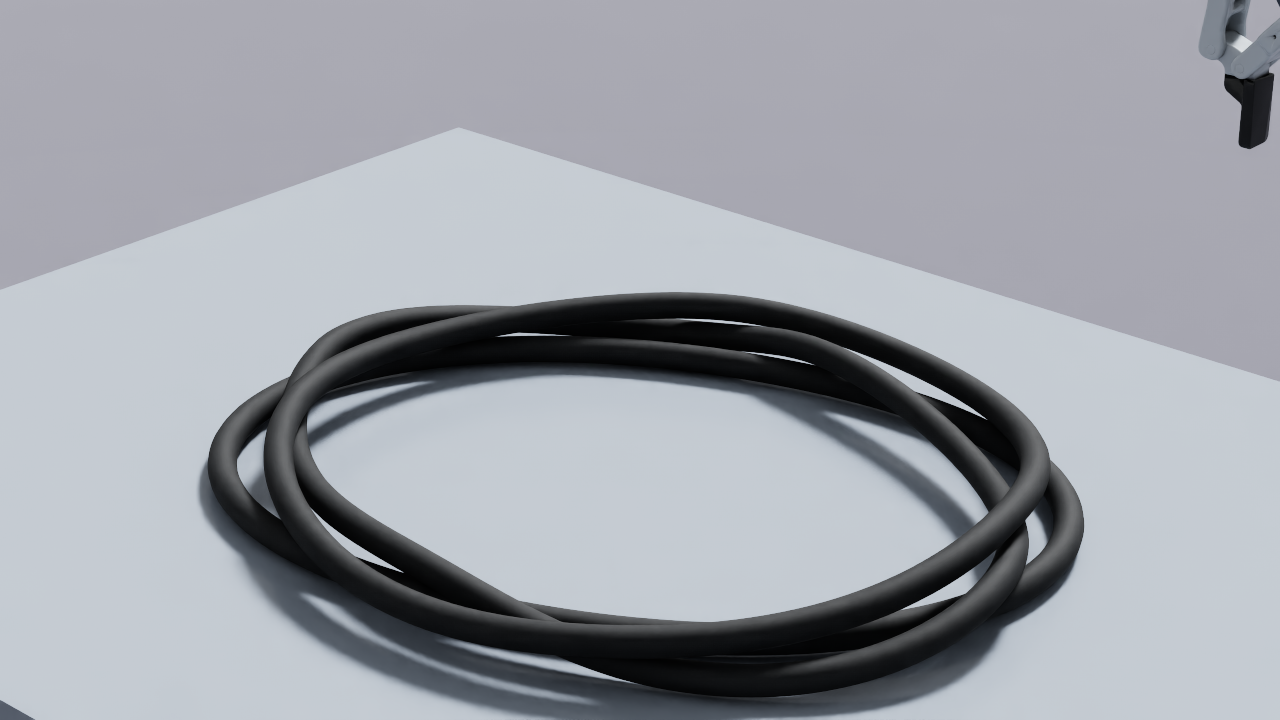
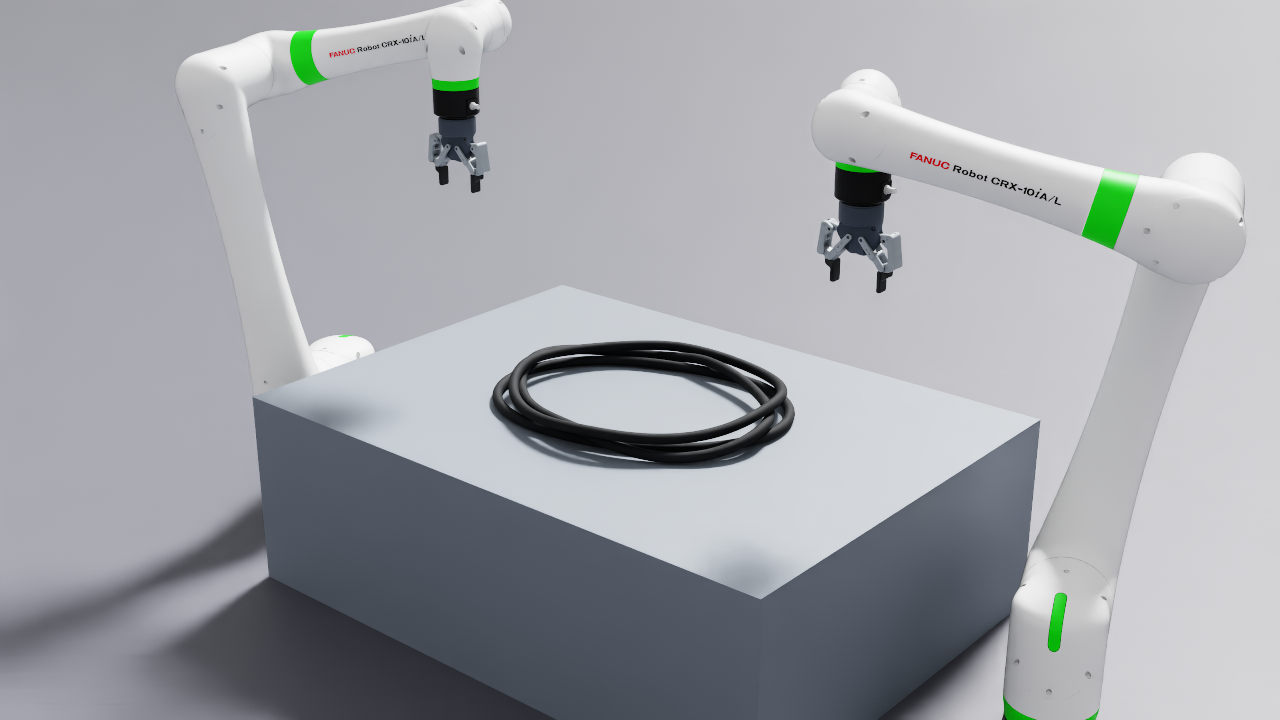
Upgrade to Newton 1.6 and animate the README with a validated GUI cycle

diff --git a/scripts/isaaclab_demo.py b/scripts/isaaclab_demo.py
@@ -5,6 +5,7 @@ The standard timeline Play/Pause and the WeatherStrip panel control the same clo
 """
 
 import argparse
+import asyncio
 from pathlib import Path
 
 from isaaclab.app import AppLauncher
@@ -14,8 +15,19 @@ parser.add_argument("--config", default=str(Path(__file__).resolve().parents[1] 
 parser.add_argument("--auto-play", action="store_true")
 parser.add_argument("--pause-at", type=float, default=None)
 parser.add_argument("--smoke-frames", type=int, default=0)
+parser.add_argument("--capture-dir", type=Path, help="Save a complete cycle as numbered viewport PNGs.")
+parser.add_argument("--capture-stride", type=int, default=4, help="Physics frames per capture (60/4 = 15 FPS).")
+parser.add_argument("--camera", choices=("scene", "close"), default="scene")
+parser.add_argument("--exit-after-cycle", action="store_true")
 AppLauncher.add_app_launcher_args(parser)
 cli = parser.parse_args()
+if cli.capture_stride < 1:
+    parser.error("--capture-stride must be positive")
+if cli.capture_dir:
+    cli.capture_dir = cli.capture_dir.resolve()
+    if cli.capture_dir.exists() and any(cli.capture_dir.iterdir()):
+        parser.error("--capture-dir must be empty to avoid mixing recordings")
+    cli.capture_dir.mkdir(parents=True, exist_ok=True)
 launcher = AppLauncher(cli)
 app = launcher.app
 
@@ -72,7 +84,7 @@ def set_camera(close=False):
         viewport.camera_path = "/root/Camera"
 
 
-set_camera()
+set_camera(cli.camera == "close")
 viewport = get_active_viewport()
 timeline = omni.timeline.get_timeline_interface()
 timeline.set_end_time(cfg.trajectory.total_duration_s + 1)
@@ -124,7 +136,51 @@ with window.frame:
         fps_label = ui.Label("FPS: measuring", height=25)
         ui.Label("Black rubber | illustrative material, not calibrated", height=25)
 
-if cli.auto_play or cli.smoke_frames:
+capture_frames = []
+
+
+def capture_frame():
+    """Finish rendering this physical state before advancing the solver again."""
+    set_camera(cli.camera == "close")
+    active = get_active_viewport()
+    if active is None:
+        raise RuntimeError("Viewport capture requires a displayed Kit viewport")
+    filename = f"frame_{len(capture_frames):05d}.png"
+    destination = cli.capture_dir / filename
+    request = capture_viewport_to_file(active, str(destination))
+    pending = asyncio.ensure_future(request.wait_for_result())
+    deadline = time.monotonic() + 30.0
+    while not pending.done() or not destination.exists():
+        if not app.is_running() or time.monotonic() > deadline:
+            pending.cancel()
+            raise RuntimeError(f"Viewport capture did not finish: {destination}")
+        app.update()
+    pending.result()
+    capture_frames.append(dict(file=filename, sim_time_s=sim.sim_time, phase=sim.last_sample.phase))
+    (cli.capture_dir / "capture.json").write_text(
+        json.dumps(
+            {
+                "newton": newton.__version__,
+                "warp": wp.__version__,
+                "physics_fps": cfg.simulation.fps,
+                "stride": cli.capture_stride,
+                "playback_fps": cfg.simulation.fps / cli.capture_stride,
+                "camera": cli.camera,
+                "completed": completed,
+                "validation_passed": validation_passed,
+                "frames": capture_frames,
+            },
+            indent=2,
+        )
+        + "\n"
+    )
+
+
+if cli.capture_dir:
+    for _ in range(20):
+        app.update()
+    capture_frame()
+if cli.auto_play or cli.smoke_frames or cli.capture_dir:
     timeline.play()
 print(
     "WEATHERSTRIP_GUI_READY: Isaac Lab AppLauncher; live Newton coupled physics; paused="
@@ -212,6 +268,8 @@ try:
                     simulated_seconds_per_wall_second=(1000 / means[3]) / cfg.simulation.fps,
                 )
                 fps_label.text = f"FPS: {perf_report['fps']:.1f} | Physics: {means[0]:.1f} ms | USD: {means[1]:.1f} ms"
+        if cli.capture_dir and advanced and (frames % cli.capture_stride == 0 or completed):
+            capture_frame()
         ticks += 1
         if control_path.exists():
             command = json.loads(control_path.read_text())
@@ -232,6 +290,8 @@ try:
             (REPO_ROOT / "results/gui_status.json").write_text(
                 json.dumps(
                     {
+                        "newton": newton.__version__,
+                        "warp": wp.__version__,
                         "sim_time_s": sim.sim_time,
                         "phase": sim.last_sample.phase,
                         "playing": timeline.is_playing(),
@@ -253,6 +313,7 @@ try:
             (REPO_ROOT / "results/gui_performance.json").write_text(
                 json.dumps(
                     {
+                        "capture_enabled": bool(cli.capture_dir),
                         "last_window": perf_report,
                         "sampled_frames": len(perf_frames),
                         "mean_ms": np.asarray(perf_frames).mean(axis=0).tolist(),
@@ -262,6 +323,10 @@ try:
                 + "\n"
             )
             perf_frames = []
+        if completed and cli.exit_after_cycle:
+            if not validation_passed:
+                raise RuntimeError("GUI cycle validation failed")
+            break
         if cli.smoke_frames and frames >= cli.smoke_frames:
             report = {
                 "isaaclab_app_launcher": True,
@@ -274,6 +339,8 @@ try:
             break
         if not timeline.is_playing():
             time.sleep(0.01)
+    if cli.capture_dir and not completed:
+        raise RuntimeError("GUI closed before the recording completed")
 except BaseException:
     import traceback
 

diff --git a/scripts/make_demo_gif.py b/scripts/make_demo_gif.py
@@ -1,0 +1,55 @@
+"""Encode a validated Isaac Lab viewport recording with FFmpeg (no Python extras)."""
+
+import argparse
+import json
+from pathlib import Path
+import shutil
+import subprocess
+
+parser = argparse.ArgumentParser(description=__doc__)
+parser.add_argument("capture_dir", type=Path)
+parser.add_argument("output", type=Path)
+parser.add_argument("--width", type=int, default=960)
+args = parser.parse_args()
+if args.width < 1:
+    parser.error("--width must be positive")
+ffmpeg = shutil.which("ffmpeg")
+if not ffmpeg:
+    parser.error("FFmpeg is required (Ubuntu: sudo apt install ffmpeg)")
+manifest = json.loads((args.capture_dir / "capture.json").read_text())
+if not manifest["completed"] or not manifest["validation_passed"]:
+    parser.error("Only a completed, validated simulation recording can be published")
+frames = manifest["frames"]
+if len(frames) < 2:
+    parser.error("The recording must have multiple frames")
+for i, frame in enumerate(frames):
+    expected = f"frame_{i:05d}.png"
+    if frame["file"] != expected or not (args.capture_dir / expected).is_file():
+        parser.error(f"Missing or nonsequential capture: {expected}")
+args.output.parent.mkdir(parents=True, exist_ok=True)
+subprocess.run(
+    [
+        ffmpeg,
+        "-hide_banner",
+        "-loglevel",
+        "warning",
+        "-n",
+        "-framerate",
+        str(manifest["playback_fps"]),
+        "-i",
+        str(args.capture_dir / "frame_%05d.png"),
+        "-filter_complex",
+        f"scale={args.width}:-1:flags=lanczos,split[a][b];"
+        "[a]palettegen=max_colors=96:stats_mode=diff[p];[b][p]paletteuse=dither=none:diff_mode=rectangle",
+        "-frames:v",
+        str(len(frames)),
+        "-loop",
+        "0",
+        str(args.output),
+    ],
+    check=True,
+)
+print(
+    f"{args.output}: {len(frames)} frames, {manifest['playback_fps']:g} FPS, "
+    f"{args.output.stat().st_size / 1024**2:.2f} MiB"
+)

diff --git a/scripts/build_asset.py b/scripts/build_asset.py
@@ -34,7 +34,7 @@ root.GetPrim().SetCustomData(
         "material_calibrated": False,
         "physics_backend": "Newton VBD closed Cosserat rod",
         "conformance": "Simulation-ready example; not formally SimReady certified",
-        "schema_support": "Pinned Newton 1.5 deformable proposal importer",
+        "schema_support": "Pinned Newton 1.6 deformable proposal importer",
     }
 )
 points = np.asarray(ring_points(w.segments, w.rest_radius_m, 0.0, w.minor_radius_m), dtype=np.float32)
@@ -87,7 +87,7 @@ root.GetPrim().CreateAttribute("weatherstrip:runtimeProfile", Sdf.ValueTypeNames
 )
 profile = {
     "schema_version": 1,
-    "backend": "Newton 1.5 SolverVBD",
+    "backend": "Newton 1.6 SolverVBD",
     "units": "SI",
     "material_calibrated": False,
     "weatherstrip": dataclasses.asdict(w),

diff --git a/src/newton_weatherstrip/presentation.py b/src/newton_weatherstrip/presentation.py
@@ -128,7 +128,7 @@ class Presentation:
         UsdGeom.Xformable(key).AddRotateXYZOp().Set(Gf.Vec3f(-35, -25, -20))
         self.stage.SetEndTimeCode(sim.config.full_cycle_frames)
         self.stage.GetDefaultPrim().SetCustomDataByKey(
-            "weatherstrip:physics", "Newton 1.5 SolverCoupledADMM(MuJoCo,VBD); live physical finger contact"
+            "weatherstrip:physics", "Newton 1.6 SolverCoupledADMM(MuJoCo,VBD); live physical finger contact"
         )
         self.stage.GetDefaultPrim().SetCustomDataByKey(
             "weatherstrip:calibration", "Qualitative EPDM-like rod; uncalibrated material, no certification claim"

diff --git a/README.md b/README.md
@@ -4,9 +4,9 @@
 
 FANUC CRX-10iA/L 두 대와 Robotiq 2F-85 그리퍼가 테이블에 쌓인 웨더스트립 세 개 중 맨 위 하나를 집습니다. 들어 올려 양쪽으로 늘리고, 다시 느슨하게 늘어뜨린 다음 공중에서 그리퍼를 열어 아래 두 개 위로 떨어뜨립니다. 로봇 관절, 탄성 변형, 마찰 접촉, 중력 낙하를 계산하고 그 결과를 Isaac Lab GUI에 표시합니다.
 
-![Isaac Lab GUI에서 양쪽 Robotiq으로 맨 위 웨더스트립을 들어 늘리는 장면](docs/media/dual-arm-stretch.png)
+![Newton 1.6으로 계산한 양팔 집기·인장·개방·자유낙하 전체 동작](docs/media/dual-arm-cycle.gif)
 
-*실제 Isaac Lab 뷰포트 캡처. 위 고무만 양쪽 그리퍼에 잡혀 있으며 아래 두 개는 테이블에 남아 있습니다. 미리 만든 변형 애니메이션이 아니라 Newton이 계산한 상태입니다.*
+*Newton 1.6.0 / Warp 1.17.0의 실제 Isaac Lab 뷰포트 기록입니다. 집기 → 들어 올리기 → 인장 → 복원 → 개방·자유낙하 → 적층 안정화를 반복 재생합니다. 60 Hz 물리 상태를 4프레임마다 캡처해 15 FPS로 재생하므로 물리 시간 기준 1배속이며, GUI 처리 속도를 뜻하지 않습니다.*
 
 | 항목 | 구현 |
 | --- | --- |
@@ -167,7 +167,7 @@ $$
 \mathcal L_{\mathrm{aug}}=E+\lambda^{\mathsf T}C+\frac{\rho_c}{2}\lVert C\rVert^2
 $$
 
-기본 구현에서 케이블의 인장·전단·굽힘·비틀림은 유한 강성을 가진 soft 모드이며, 강체 접촉은 hard 모드를 사용합니다. `builder.color()`가 필수이고, 감쇠 계수 `kd`는 절대 물리 단위로 해석합니다. [Newton SolverVBD API](https://newton-physics.github.io/newton/1.5.0/api/_generated/newton.solvers.SolverVBD.html), [AVBD 원 논문](https://graphics.cs.utah.edu/research/projects/avbd/)
+기본 구현에서 케이블의 인장·전단·굽힘·비틀림은 유한 강성을 가진 soft 모드이며, 강체 접촉은 hard 모드를 사용합니다. `builder.color()`가 필수이고, 감쇠 계수 `kd`는 절대 물리 단위로 해석합니다. [Newton SolverVBD API](https://newton-physics.github.io/newton/1.6.0/api/_generated/newton.solvers.SolverVBD.html), [AVBD 원 논문](https://graphics.cs.utah.edu/research/projects/avbd/)
 
 VBD 논문의 안정성 논의를 곧바로 이 전체 장면의 무조건적인 성공 보장으로 확대하면 안 됩니다. 본 장면은 유한 반복, 접촉 검출, 관절 구동, 서로 다른 솔버의 결합을 포함합니다. 반복 수를 너무 줄이거나 접촉 강성을 과도하게 높이면 미끄러짐·잔진동·제약 오차가 발생할 수 있습니다.
 
@@ -194,7 +194,7 @@ $$
 
 Robotiq의 주 관절 하나를 구동하면 mimic equality가 나머지 손가락 관절을 연동합니다. 이 예제는 접촉 하중 아래에서 수동 관절이 과도하게 벌어지지 않도록 `eq_solref=[0.004,1.0]`, `eq_solimp=[0.99,0.99,0.001,0.5,2.0]`를 설정합니다. 이는 예제의 솔버 튜닝값이며 제조사 제어기 사양을 재현한 값은 아닙니다.
 
-`use_mujoco_contacts=False`는 모든 접촉을 끈다는 의미가 아닙니다. Newton/결합 솔버가 관리하는 접촉 경로를 사용한다는 뜻입니다. 특히 고무–그리퍼의 교차 솔버 접촉은 다음 ADMM 인터페이스가 담당합니다. [Newton MuJoCo 문서](https://newton-physics.github.io/newton/1.5.0/solvers/mujoco.html), [MuJoCo Warp](https://github.com/google-deepmind/mujoco_warp)
+`use_mujoco_contacts=False`는 모든 접촉을 끈다는 의미가 아닙니다. Newton/결합 솔버가 관리하는 접촉 경로를 사용한다는 뜻입니다. 특히 고무–그리퍼의 교차 솔버 접촉은 다음 ADMM 인터페이스가 담당합니다. [Newton MuJoCo 문서](https://newton-physics.github.io/newton/1.6.0/solvers/mujoco.html), [MuJoCo Warp](https://github.com/google-deepmind/mujoco_warp)
 
 ### 3.4 ADMM으로 두 솔버 결합하기
 
@@ -230,7 +230,7 @@ SolverCoupledADMM.Config(
 )
 ```
 
-ADMM은 소유권이 다른 물체의 접촉 행을 내부 검출 경로에서 구성하고, 마찰 접촉에서 최대 소산을 따르는 Coulomb 투영을 사용합니다. VBD가 계산하는 고무끼리의 접촉과 이 교차 접촉을 구분해야 합니다. `rho`는 인터페이스의 수치적 penalty이며 고무의 Young 계수나 N/m 단위의 접촉 스프링 강성과 동일한 값이 아닙니다. 고정된 반복 예산을 사용하므로 매 substep의 완전 수렴을 주장하지 않습니다. [Newton 결합 솔버 문서](https://newton-physics.github.io/newton/1.5.0/concepts/coupling.html)
+ADMM은 소유권이 다른 물체의 접촉 행을 내부 검출 경로에서 구성하고, 마찰 접촉에서 최대 소산을 따르는 Coulomb 투영을 사용합니다. VBD가 계산하는 고무끼리의 접촉과 이 교차 접촉을 구분해야 합니다. `rho`는 인터페이스의 수치적 penalty이며 고무의 Young 계수나 N/m 단위의 접촉 스프링 강성과 동일한 값이 아닙니다. 고정된 반복 예산을 사용하므로 매 substep의 완전 수렴을 주장하지 않습니다. [Newton 결합 솔버 문서](https://newton-physics.github.io/newton/1.6.0/concepts/coupling.html)
 
 ### 3.5 적층 안정화와 접촉 계수
 
@@ -319,9 +319,9 @@ USD의 주요 prim은 다음과 같습니다.
 | OS | Ubuntu 24.04.4 LTS, Linux x86-64 |
 | Python | 3.12 |
 | GPU / 드라이버 | NVIDIA RTX 6000 Ada 48 GB / 595.91.07 |
-| Newton | 1.5.0, upstream tag `v1.5.0` |
-| Warp | 1.16.0 |
-| MuJoCo / MuJoCo Warp | 각각 3.11.0 |
+| Newton | 1.6.0, upstream tag `v1.6.0` |
+| Warp | 1.17.0 |
+| MuJoCo / MuJoCo Warp | 각각 3.12.0 |
 | NumPy / OpenUSD | 2.3.1 / `usd-core` 25.11 |
 | Isaac Sim | 6.0.1.0 |
 | Isaac Lab 소스 | commit `2e44ddb2e19536579140496023b5ccb060bc4152` |
@@ -388,7 +388,7 @@ export WEATHERSTRIP_ISAACLAB="$PWD/.cache/IsaacLab"
 ./scripts/run_isaaclab.sh
 ```
 
-이 예제는 `AppLauncher`만 사용하고 학습 환경의 전체 설치 집합을 요구하지 않습니다. 실행 래퍼가 `WEATHERSTRIP_ISAACLAB/source/*`를 Python 경로에 추가합니다. 해당 Isaac Lab commit의 전체 `setup.py`에는 Warp 1.13.0 의존성이 있으므로, 이를 무조건 함께 설치하면 본 예제의 Newton 1.5 / Warp 1.16 조합과 충돌합니다. 학습용 Isaac Lab 환경에 통합할 때에는 별도 호환성 검증이 필요합니다.
+이 예제는 `AppLauncher`만 사용하고 학습 환경의 전체 설치 집합을 요구하지 않습니다. 실행 래퍼가 `WEATHERSTRIP_ISAACLAB/source/*`를 Python 경로에 추가합니다. 해당 Isaac Lab commit의 전체 `setup.py`에는 Warp 1.13.0 의존성이 있으므로, 이를 무조건 함께 설치하면 본 예제의 Newton 1.6 / Warp 1.17 조합과 충돌합니다. 학습용 Isaac Lab 환경에 통합할 때에는 별도 호환성 검증이 필요합니다.
 
 GUI 검증에는 기존 Isaac Sim 설치와 **수정하지 않은 고정 Isaac Lab 소스**를 사용합니다. 위 GUI 패키지 전체를 모든 시스템에서 자동 설치해 주는 통합 설치기나 Docker 이미지를 제공하는 것은 아닙니다. NVIDIA EULA 확인과 첫 실행 shader 준비는 Isaac Sim의 안내를 따릅니다. [Isaac Lab 설치 안내](https://isaac-sim.github.io/IsaacLab/v3.0.0-beta2/source/setup/installation/pip_installation.html)
 
@@ -435,6 +435,18 @@ WEATHERSTRIP_DEVICE=cuda:1 WEATHERSTRIP_RENDER_GPU=0 \
 - 상태 표시: 동작 단계, 물리 시간, 고무 폭, FPS, 물리·USD 갱신 비용.
 
 60 Hz는 물리 시간 간격의 기준입니다. 예를 들어 GUI가 20 FPS이면 물리 시간 1초를 진행하는 데 실제 약 3초가 걸립니다. GUI FPS와 실시간 배속 1.0을 혼동하지 않아야 합니다.
+
+### README 동작 GIF 재생성
+
+GUI 환경과 FFmpeg가 필요합니다. 프레임 폴더는 비어 있어야 하며, 완료·물리 검증에 통과한 기록만 GIF로 변환합니다. 카메라는 기록 동안 고정됩니다.
+
+```bash
+./scripts/run_isaaclab.sh --capture-dir results/demo-frames \
+  --camera scene --capture-stride 4 --exit-after-cycle
+python3 scripts/make_demo_gif.py results/demo-frames results/dual-arm-cycle.gif
+```
+
+생성 파일을 확인한 뒤 `docs/media/dual-arm-cycle.gif`로 복사합니다. `capture.json`에는 엔진 버전, 물리 시간, 단계별 프레임과 검증 결과가 기록됩니다. GIF는 960 px 너비, 15 FPS, 무한 반복이며 원본 PNG는 Git에 포함하지 않습니다.
 
 ### 기록과 검증
 
@@ -519,7 +531,7 @@ GitHub Actions는 CPU에서 표면 회귀, 자산 manifest 무결성, Python 및
 
 ### 관측 결과
 
-새 계산 전용 가상환경에서 기본 13.05초 전체 사이클이 통과했습니다. 전체 고무 상승은 약 0.261 m, 최대 폭은 약 0.761 m였고, 최대 rigid contact 수는 415 / 8,192였습니다. 마지막 1초 평균 RMS 속도는 아래에서부터 약 0.56 / 1.15 / 1.29 mm/s였습니다. 고정된 Isaac Lab 원본 소스로 실행한 GUI에서도 전체 사이클이 통과했습니다.
+Newton 1.6.0의 새 계산 전용 가상환경에서 기본 13.05초 전체 사이클이 통과했습니다. 전체 고무 상승은 약 0.262 m, 최대 폭은 약 0.761 m였고, 최대 rigid contact 수는 410 / 8,192였습니다. 마지막 1초 평균 RMS 속도는 아래에서부터 약 0.54 / 1.05 / 1.04 mm/s였습니다. 고정된 Isaac Lab 원본 소스로 실행한 GUI에서도 전체 사이클이 통과했습니다.
 
 적층 안정화의 비교 지표는 구간 중심의 프레임 간 변위로부터 계산합니다.
 
@@ -528,9 +540,11 @@ v_{i,n}=\frac{\lVert p_{i,n}-p_{i,n-1}\rVert}{\Delta t_{\mathrm{frame}}},\qquad
 v_{\mathrm{RMS},n}=\sqrt{\frac{1}{N}\sum_i v_{i,n}^2}
 $$
 
-동일한 12–13초 구간에서 최상단 씰의 평균 RMS 속도는 **16.85 → 2.13 mm/s**로 감소했습니다. 20초까지 물리를 계속 계산했을 때에는 약 **0.96 mm/s**였습니다. 정지 판정으로 속도를 없앤 결과가 아닙니다. 이 수치는 예시 재료와 장면의 관측값이며 실측 재료 검증값은 아닙니다. 공개용 지표는 [docs/validation/reference-results.json](docs/validation/reference-results.json)에 정리했습니다.
+Newton 1.5 개발 당시 동일한 12–13초 구간에서 최상단 씰의 평균 RMS 속도는 **16.85 → 2.13 mm/s**로 감소했습니다. 20초까지 물리를 계속 계산했을 때에는 약 **0.96 mm/s**였습니다. 정지 판정으로 속도를 없앤 결과가 아닙니다. 이 수치는 예시 재료와 장면의 관측값이며 실측 재료 검증값은 아닙니다. 공개용 지표는 [docs/validation/reference-results.json](docs/validation/reference-results.json)에 정리했습니다.
 
 ### 성능 개선
+
+아래 비교는 Newton 1.5 개발 당시의 기록입니다. Newton 1.6의 재검증 결과와 구분합니다. GIF 캡처 중의 처리 속도는 성능 측정으로 사용하지 않습니다.
 
 | 측정 경로 | 이전 | 개선 후 |
 | --- | ---: | ---: |
@@ -627,8 +641,8 @@ NewtonVBD_WeatherStrip/
 | VBD | Chen et al., *Vertex Block Descent*, SIGGRAPH 2024 — [프로젝트와 논문](https://graphics.cs.utah.edu/research/projects/vbd/) |
 | AVBD | Giles et al., *Augmented Vertex Block Descent*, SIGGRAPH 2025 — [프로젝트와 논문](https://graphics.cs.utah.edu/research/projects/avbd/) |
 | ADMM | Boyd et al., *Distributed Optimization and Statistical Learning via ADMM*, 2011 — [원문](https://stanford.edu/~boyd/papers/admm_distr_stats.html) |
-| Newton 1.5 | [소스](https://github.com/newton-physics/newton/tree/v1.5.0), [VBD API](https://newton-physics.github.io/newton/1.5.0/api/_generated/newton.solvers.SolverVBD.html), [결합 솔버](https://newton-physics.github.io/newton/1.5.0/concepts/coupling.html) |
-| MuJoCo Warp | [공식 저장소](https://github.com/google-deepmind/mujoco_warp), [Newton 어댑터](https://newton-physics.github.io/newton/1.5.0/solvers/mujoco.html) |
+| Newton 1.6 | [소스](https://github.com/newton-physics/newton/tree/v1.6.0), [VBD API](https://newton-physics.github.io/newton/1.6.0/api/_generated/newton.solvers.SolverVBD.html), [결합 솔버](https://newton-physics.github.io/newton/1.6.0/concepts/coupling.html) |
+| MuJoCo Warp | [공식 저장소](https://github.com/google-deepmind/mujoco_warp), [Newton 어댑터](https://newton-physics.github.io/newton/1.6.0/solvers/mujoco.html) |
 | Isaac Lab | [공식 저장소](https://github.com/isaac-sim/IsaacLab), [검증 소스 commit](https://github.com/isaac-sim/IsaacLab/tree/2e44ddb2e19536579140496023b5ccb060bc4152) |
 | 로봇 자산 | [NVIDIA Isaac Sim 로봇 안내](https://docs.isaacsim.omniverse.nvidia.com/latest/assets/usd_assets_robots_manipulator.html), [SimReady Foundation](https://github.com/NVIDIA/simready-foundation) |
 
